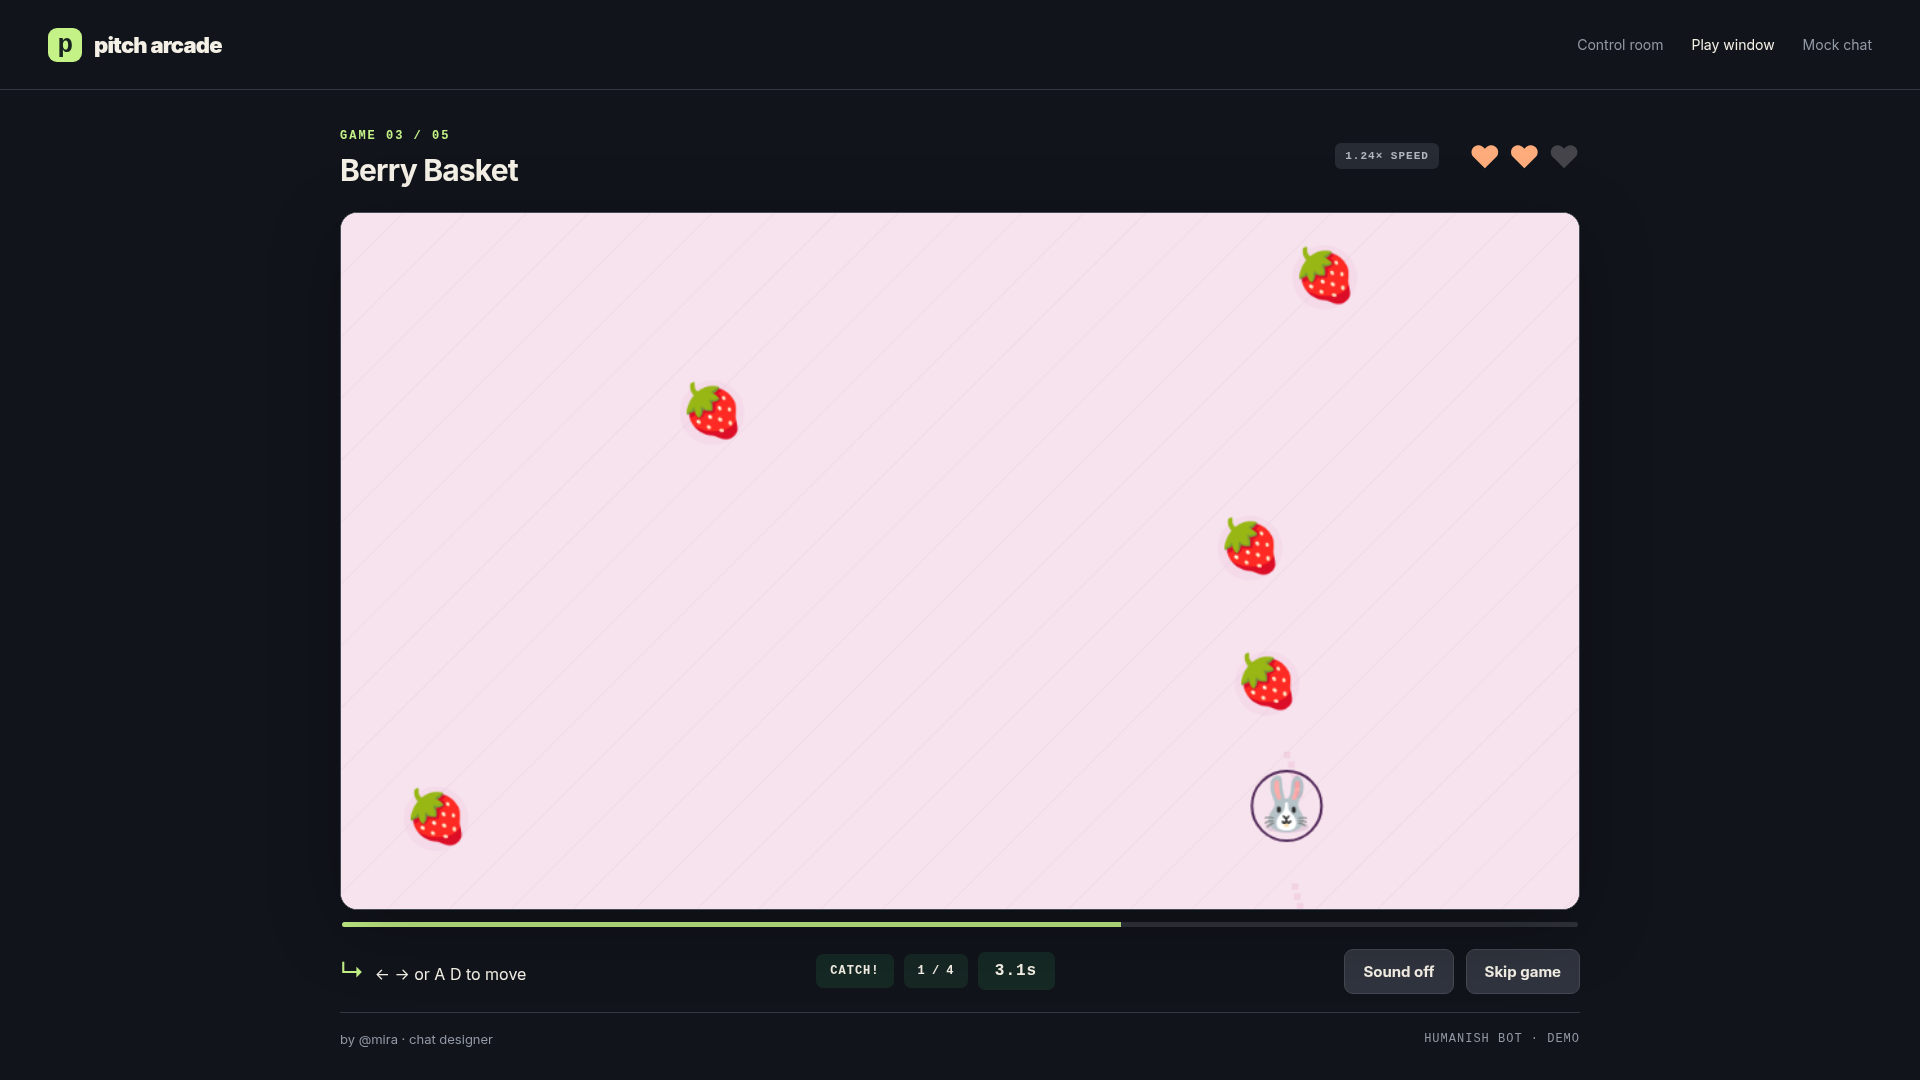
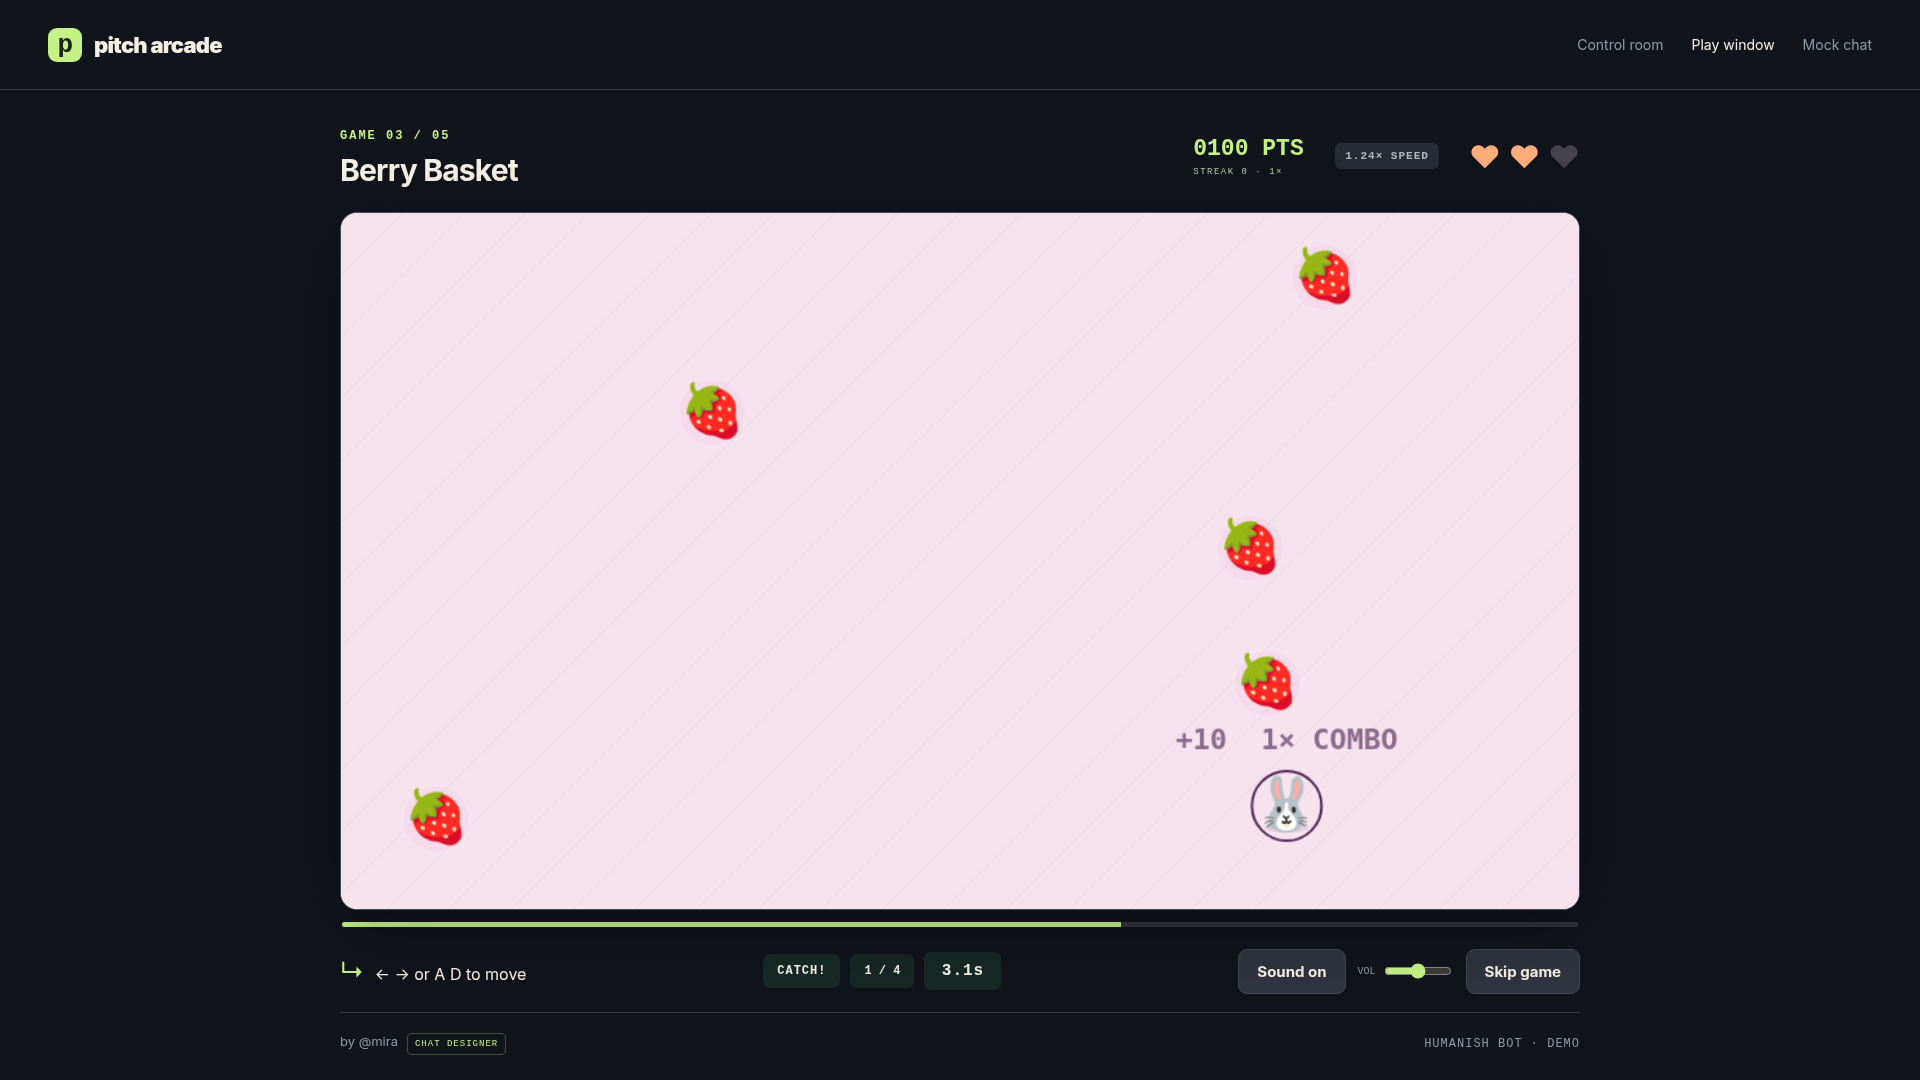
M6 B verify audio and motion in Chrome and refresh polished gallery

diff --git a/packages/render/src/audio.ts b/packages/render/src/audio.ts
@@ -1,18 +1,20 @@
 export type Sound='pop'|'boom'|'ding'|'none'|'hit'|'tick'|'countdown'|'go'|'win'|'lose'|'pitch';
 export const soundNotes:Record<Exclude<Sound,'none'>,number[]>={pop:[660,320],boom:[110,55],ding:[880,1320],hit:[520,180],tick:[960,1440],countdown:[440,440],go:[660,990,1320],win:[523,659,784,1047],lose:[220,165,110],pitch:[160,480,960]};
 export class SynthSfx {
- private context:AudioContext|undefined;enabled=false;volume=.35;
- async enable():Promise<void>{this.enabled=true;this.context??=new AudioContext();await this.context.resume();}
- setVolume(value:number):void{this.volume=Number.isFinite(value)?Math.max(0,Math.min(1,value)):0;}
+ private context:AudioContext|undefined;private master:GainNode|undefined;private active=false;volume=.35;
+ get enabled():boolean{return this.active;}
+ set enabled(value:boolean){this.active=value;this.master?.gain.setTargetAtTime(value?this.volume:0,this.context?.currentTime??0,.01);}
+ async enable():Promise<void>{this.context??=new AudioContext();if(!this.master){this.master=this.context.createGain();this.master.connect(this.context.destination);}this.enabled=true;await this.context.resume();}
+ setVolume(value:number):void{this.volume=Number.isFinite(value)?Math.max(0,Math.min(1,value)):0;this.enabled=this.active;}
  play(kind:Sound):void{
   if(!this.enabled||!this.context||this.context.state!=='running'||kind==='none')return;
   const ctx=this.context,notes=soundNotes[kind],time=ctx.currentTime,melodic=kind==='win'||kind==='go'||kind==='lose';
   for(const [i,note] of notes.entries()){
    const osc=ctx.createOscillator(),gain=ctx.createGain(),at=time+(melodic?i*.085:0),duration=melodic?.16:.12;
    osc.type=kind==='lose'||kind==='boom'?'triangle':'sine';osc.frequency.setValueAtTime(note,at);osc.frequency.exponentialRampToValueAtTime(melodic?note:Math.max(45,note*.5),at+duration);
-   gain.gain.setValueAtTime(0,at);gain.gain.linearRampToValueAtTime(.11*this.volume/Math.sqrt(notes.length),at+.008);gain.gain.exponentialRampToValueAtTime(.0001,at+duration);
-   osc.connect(gain);gain.connect(ctx.destination);osc.start(at);osc.stop(at+duration+.02);osc.onended=()=>{osc.disconnect();gain.disconnect();};
+   gain.gain.setValueAtTime(0,at);gain.gain.linearRampToValueAtTime(.11/Math.sqrt(notes.length),at+.008);gain.gain.exponentialRampToValueAtTime(.0001,at+duration);
+   osc.connect(gain);gain.connect(this.master!);osc.start(at);osc.stop(at+duration+.02);osc.onended=()=>{osc.disconnect();gain.disconnect();};
   }
  }
- async dispose():Promise<void>{const context=this.context;this.context=undefined;this.enabled=false;if(context&&context.state!=='closed')await context.close();}
+ async dispose():Promise<void>{const context=this.context;this.context=undefined;this.enabled=false;this.master?.disconnect();this.master=undefined;if(context&&context.state!=='closed')await context.close();}
 }

diff --git a/packages/render/src/feedback.test.ts b/packages/render/src/feedback.test.ts
@@ -3,3 +3,7 @@ import {HitFeedback} from './feedback.js';
 import {SynthSfx,soundNotes} from './audio.js';
 test('render hit stop is short and reduced motion disables spatial feedback',()=>{const f=new HitFeedback();f.hit(1,0);expect(f.hold).toBeLessThanOrEqual(.04);expect(f.combo).toBe(1);f.update(.05);expect(f.hold).toBe(0);const reduced=new HitFeedback(true);reduced.hit(5,0);expect(reduced.hold).toBe(0);expect(reduced.flash).toBe(0);});
 test('synth recipes include each cue and volume is bounded',()=>{for(const kind of ['hit','tick','countdown','win','lose','pitch'] as const)expect(soundNotes[kind].every(n=>n>=45&&n<=1600)).toBe(true);const audio=new SynthSfx();audio.setVolume(12);expect(audio.volume).toBe(1);audio.setVolume(-1);expect(audio.volume).toBe(0);});
+test('mute and volume control the master gain immediately, including active notes',async()=>{
+ const {vi}=await import('vitest');const target=vi.fn(),master={gain:{setTargetAtTime:target},connect:vi.fn(),disconnect:vi.fn()};vi.stubGlobal('AudioContext',class{currentTime=0;state='running';destination={};createGain(){return master;}async resume(){}async close(){}});
+ try{const audio=new SynthSfx();await audio.enable();audio.setVolume(.2);expect(target).toHaveBeenLastCalledWith(.2,0,.01);audio.enabled=false;expect(target).toHaveBeenLastCalledWith(0,0,.01);await audio.dispose();}finally{vi.unstubAllGlobals();}
+});

diff --git a/apps/play/src/play.css b/apps/play/src/play.css
@@ -6,3 +6,4 @@
 @keyframes card-arrive{from{opacity:0;transform:translateY(18px) scale(.97)}to{opacity:1;transform:none}}@keyframes logo-land{from{transform:rotate(-12deg) scale(.55);opacity:0}to{transform:none;opacity:1}}@keyframes count-hit{from{transform:scale(1.24);opacity:.3}to{transform:scale(1);opacity:1}}@keyframes go-away{0%{opacity:1;transform:scale(.8)}65%{opacity:1}100%{opacity:0;transform:scale(1.15)}}
 @media(max-width:900px){.run-points{font-size:15px;min-width:90px}.volume-label{display:none}.results-layout{gap:12px}.round-receipt{font-size:10px}.phase-finished .stage-verb{font-size:50px}}
 .score-column{display:flex;flex-direction:column;gap:5px}.run-combo{font:9px var(--mono);color:#b9c7ab;letter-spacing:1.5px}.round-score{font:700 13px var(--mono);letter-spacing:2px;margin-top:26px;color:#4c4532}
+.round-receipt{font-size:14px}.round-receipt small{font-size:11px;color:#435b36;opacity:1}.round-receipt>strong{font-size:12px}.result-rank{font-size:12px}.results-leaders .eyebrow{font-size:10px}.phase-finished .stage-note{font-size:12px}

diff --git a/apps/play/src/main.ts b/apps/play/src/main.ts
@@ -30,7 +30,7 @@ let state:GauntletState|undefined,renderer:ArcadeRenderer|undefined,key='',phase
 function update(value:GauntletState):void{
  state=value;root.dataset.phase=value.phase;root.dataset.game=value.game?.id.toString()??'';root.dataset.frame=value.snapshot?.frame.toString()??'0';
  const nextKey=value.id+':'+value.round;
- if(value.game&&nextKey!==key){key=nextKey;renderer=new ArcadeRenderer(canvas,value.game.spec,kind=>audio.play(kind==='boom'?'hit':'tick'));}
+ if(value.game&&nextKey!==key){key=nextKey;renderer=new ArcadeRenderer(canvas,value.game.spec,kind=>audio.play(kind==='none'?'none':kind==='boom'?'hit':'tick'));}
  round.textContent=value.phase==='idle'?'THE COMMUNITY GAUNTLET':'GAME '+String(value.round).padStart(2,'0')+' / 05';
  points.textContent=String(value.points).padStart(4,'0')+' PTS';combo.textContent='STREAK '+value.combo+' · '+Math.min(5,Math.max(1,value.combo))+'×';
  title.textContent=value.game?.title??'Your chat made this.';

diff --git a/README.md b/README.md
@@ -65,7 +65,9 @@ Use a window capture for `http://127.0.0.1:3000/play/`. The logical game is 960 
 
 Add an OBS browser source for `http://127.0.0.1:3000/overlay/`. Set width 1920 and height 1080. Place it above the play capture. The center stays transparent. `?backdrop=1` adds a checker preview for screenshots. Keep that query off in OBS.
 
-Arrows or WASD move. Space or mouse clicks hit targets. Repeated space or mouse taps mash. Double tap S or press Shift + S to skip. A normal S press still moves down. Sound starts only after a gesture and is off by default.
+Arrows or WASD move. Space or mouse clicks hit targets. Repeated space or mouse taps mash. Double tap S or press Shift + S to skip. A normal S press still moves down. Sound defaults on for play and resumes on the first interaction when the browser requires it. Use ?sound=0 to mute play. The overlay defaults to muted; use ?sound=1 for OBS audio. Both pages have mute and volume controls.
+
+Wins earn 100 points times the current win streak, capped at 5×. Losses award the designer 100 points. A loss or skip resets the streak. Designer totals and player high scores persist in SQLite. Bot scores are labeled. Final cards credit every game. Render combo pops are decorative and do not change these scores.
 
 The dashboard has approve, reject, preview, skip, stop and pause controls. Pause stops intake and active work. Optional auto approval applies to validated mod or VIP pitches. Chat cannot control gameplay.
 
@@ -140,9 +142,13 @@ npm run playtest -- library/01-taco-rain.json
 npm run shots
 ```
 
-The suite has 168 passing tests. It covers deterministic outcomes, schema and semantic checks, bot acceptance, queue races, sandbox boundaries, OAuth refresh, local Twitch protocols and a finished unattended gauntlet. [Fresh clone proof](docs/fresh-clone.md) records a clean installation.
+The suite has 180 passing tests. It covers deterministic outcomes, schema and semantic checks, bot acceptance, queue races, sandbox boundaries, OAuth refresh, local Twitch protocols and a finished unattended gauntlet. [Fresh clone proof](docs/fresh-clone.md) records a clean installation.
 
 Shots use installed Chrome or Playwright Chromium. They include three games, browser control checks, a literal HTML injection check, a transparent overlay check and a completed gauntlet. The gallery combines a mock authoring session with a local Twitch protocol simulation. The overlay's real Codex receipt comes from the measured spike. Its clip URL comes from fake Helix.
+
+| Intro | Results |
+| --- | --- |
+| ![Gauntlet intro](shots/overlay-intro.png) | ![Credited results](shots/play-results.png) |
 
 | Play | Factory and OBS |
 | --- | --- |

diff --git a/docs/demo.md b/docs/demo.md
@@ -20,7 +20,7 @@ A normal S press moves down in four direction games.
 Double tap S or use Shift + S to skip without losing WASD movement.
 The dashboard also has a skip button.
 
-Sound starts only when you press Sound off to enable it.
+Play requests sound by default. Browsers unlock its AudioContext on the first interaction. Use ?sound=0 to mute it. The overlay requests audio only with ?sound=1, which works in OBS when browser source autoplay is permitted. Both pages have mute and volume controls.
 All effects are synthesized. There is no music.
 The engine and outcomes run on the server, so previews cannot advance the shared game.
 Only a claimed local play connection can send player input.
@@ -65,6 +65,7 @@ No browser download is performed by the script.
 The script writes:
 
 * shots/overlay.png from the local Twitch protocol simulation, with two mock workers, an actual measured Codex spike receipt and a simulated clip link.
+* shots/overlay-intro.png, play-countdown.png and play-results.png show the intro, countdown and credited scores.
 * shots/overlay-mock.png from the separate scripted mock session.
 * shots/play-title.png with the first viewer game title.
 * shots/play-game.png, play-game-2.png and play-game-3.png from three different games.
@@ -79,8 +80,14 @@ After taking the images, the script waits for the gauntlet to finish.
 It then checks a manual game, keyboard input, double tap skip, preview isolation,
 auto approval settings and the word editor through the browser.
 
-The eight source images were inspected during the final build.
+The eleven source images were inspected during the final build.
 The word editor is collapsed by default so blocked phrases do not appear in a shared dashboard.
 The gameplay HUD sits outside the arena so it cannot hide a simulated target.
 It shows the actual verb, score target and remaining game time. The OBS card mirrors that objective.
 The spotlight retains its last cursor position between clicks and never strobes.
+
+## Points and presentation
+
+Wins earn 100 points times the consecutive win count, capped at 5×. A loss or skip resets that streak. A designer earns 100 points when their game beats the player. Designer totals and each player's best completed run persist in SQLite. Humanish bot records have a BOT label. Old records without streak data count 100 per win.
+
+Hit stop, combo text, particles, shake and edge pulses are render effects only. Hit stop lasts at most 35 ms. The engine keeps running at its fixed step. Reduced motion disables spatial effects and edge pulses. Intro and GO timing follow server frames.

diff --git a/BUILDLOG.md b/BUILDLOG.md
@@ -147,3 +147,9 @@ Added a branded gauntlet intro, server timed countdown and GO cue, eased scene c
 ### M6 B player score cards
 
 Added the branded play intro, countdown impact and GO cue, live points and streaks, sanitized designer badges, round score feedback and a complete final score card. Results include all five game credits plus designer totals and player high scores. Human and bot ties remain distinct and deterministic. Sound defaults on for play with query mute and volume controls. npm test passes with 179 tests in 31 files.
+
+### M6 B browser proof and final polish
+
+Refreshed eleven screenshots, including the gauntlet intro, countdown and full credited results. Inspected the new layouts and improved credit contrast. Playwright verified actual oscillator synthesis, gesture unlock, query mute, volume, normal motion countdown animation, reduced motion, controls and a finished five game gauntlet. An additional Chrome check verified overlay sound=1, pitch cues, eased panel transitions and master gain mute for active notes. Added a master gain regression test. Updated current docs, scoring rules, audio defaults and the gallery while retaining historical spike measurements.
+
+npm run build passes. Final npm test passes with 180 tests in 31 files, duration 10.89 seconds on Node 22.11 and npm 10.9. npm run lint:prose passes all eleven documentation files. The engine and its fixed step were unchanged. No new dependencies or remote audio assets were added. No blockers.

diff --git a/docs/codex.md b/docs/codex.md
@@ -4,7 +4,7 @@
 
 The project was built in one main Codex thread: 01a18380-92df-7fb1-84cd-1b45659bee41. The thread wrote original code, tests, documentation and browser tooling. The build includes fifteen planned engineering tasks: T01, T02, T03, T04, T05, T06, T07, T08, T09, T10, T11, T12, T13, T14 and T15. The final review, documentation, screenshots and clean installation checks are recorded separately in BUILDLOG.md.
 
-The final suite has 168 tests in 27 files. Milestones one through four produced sixteen implementation commits, including the real factory spike. Five final packaging commits cover review, docs, screenshots, fresh clone proof and the final audit. The completed build has twenty one commits.
+The current suite has 180 tests in 31 files. Milestones one through four produced sixteen implementation commits, including the real factory spike. Five final packaging commits cover review, docs, screenshots, fresh clone proof and the final audit. Milestone five closed with twenty one commits. The polish sprint adds the model switch, scoring, sound, render feedback and broadcast presentation.
 
 The engine, harness and Twitch work started with tests. Each task closed with a green suite and a build log entry. The final self review found six defects and added regression tests for each. Browser tooling captures real running application state and checks controls, previews, rendering and a finished unattended session.
 

diff --git a/ASSETS.md b/ASSETS.md
@@ -9,7 +9,7 @@ Other machines use their installed system emoji font. Emoji appearance may diffe
 
 All game sound effects are synthesized locally with WebAudio oscillators and gain envelopes.
 No audio recordings, music or copyrighted sound packs are included.
-Audio starts only after a user gesture. Muting does not affect simulation.
+Audio resumes on interaction when the browser requires it. OBS can permit autoplay with sound enabled in the overlay URL. Muting does not affect simulation.
 
 The renderer uses eight palettes and five static patterns.
 Particles are decorative and capped at 96. Shake is capped at six logical pixels.
@@ -35,3 +35,5 @@ Original application source and generated game data are provided under the repos
 | Bundled harness dependencies | Upstream notices | factory/template/tools/LICENSES.txt |
 
 The screenshots are direct browser captures of this application. The final overlay includes a real measured Codex receipt and clearly simulated Helix clip links. No Twitch footage, copyrighted music or external artwork is included. Font rendering can differ on other systems.
+
+The polish sprint adds original synthesized hit, score, countdown, win, lose and pitch cues. Render hit stop is capped at 35 ms and never delays the engine. Reduced motion disables spatial feedback and edge pulses. No sound or image asset files were added.

diff --git a/docs/server.md b/docs/server.md
@@ -140,3 +140,9 @@ See docs/demo.md for unattended capture and OBS placement.
 The loss hook is a ResultsSink interface.
 MockResultsSink records simulated clip requests and chat result lines.
 RealResultsSink uses the live Helix client, posts confirmed clip links and sends the final gauntlet summary. Clip and chat errors stay separate from gameplay. The local protocol demo uses the same sink against fake Helix and labels its links simulated. Public Twitch delivery is not yet verified.
+
+## Points and league tables
+
+GET /api/leaderboards returns designer point totals and player high scores. The same boards travel in /api/state. Round scores reference persisted plays and player identities reference gauntlets. Existing databases gain the two score tables automatically. Legacy wins without streak data count 100 points each. Bots are labeled independently of human players.
+
+Each win earns 100 times the consecutive win count, capped at 5×. A loss gives the designer 100 and resets the player streak. A skip also resets it. Results include per game points, streak and designer credit. Render combo effects are decorative and do not write scores.

diff --git a/DEVPOST.md b/DEVPOST.md
@@ -24,7 +24,7 @@ A transparent OBS overlay shows the factory, designer credit, lives, queue and t
 
 One main Codex thread built the original TypeScript application, deterministic engine, JSON format, bots, Twitch adapters, dashboard and demo tooling. Tests guided the engine, harness and Twitch work. The same thread reviewed the boundaries, fixed six findings and captured browser evidence.
 
-The final suite has 168 passing tests. The build record names each task and its validation. The main session is 01a18380-92df-7fb1-84cd-1b45659bee41.
+The final suite has 180 passing tests. The build record names each task and its validation. The main session is 01a18380-92df-7fb1-84cd-1b45659bee41.
 
 ### Runtime
 
